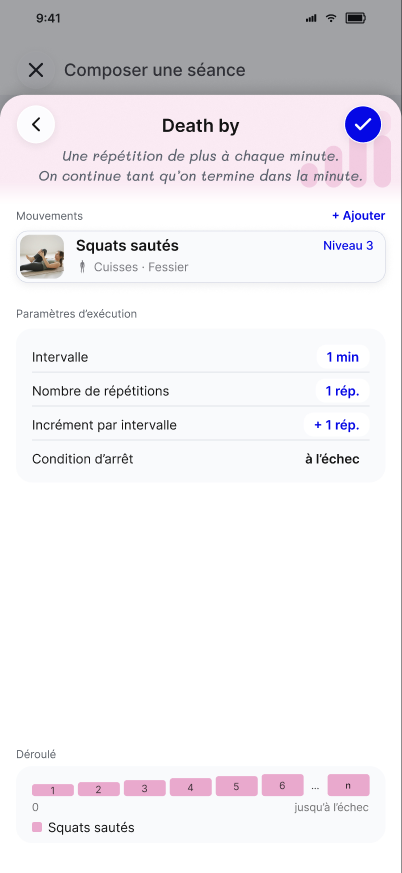
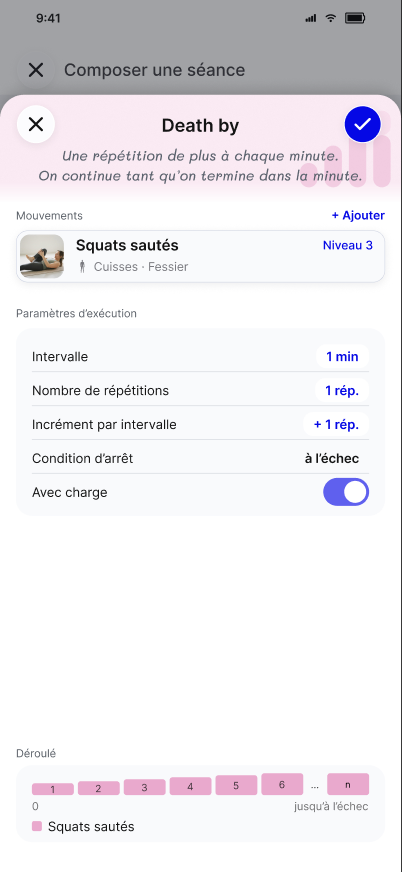
docs: bouton Valider les paramètres des questionnaires suivis d'une seconde étape (D-511)
Classe B. Spec du 06/11 §1 bis, ch07, ch13, ch06, référence Formats ;
4 écrans Figma créés, Death by un mouvement renommé.

Claude-Session: https://claude.ai/code/session_01SgPCgP1afjHHdeUEm3cke2

diff --git a/docs/KODJO-Formats-entrainement-2026-11-02.md b/docs/KODJO-Formats-entrainement-2026-11-02.md
@@ -1,6 +1,6 @@
 # Mise à jour des spécifications — Formats d'entraînement et portage du format par le circuit
 
-> **Révision du 05/11/2026 :** validation des modales de Format par la coche de l’en-tête (D-499) et « + Ajouter » en mode catalogue direct (D-500) — [KODJO-Catalogues-cartes-modales-2026-11-06](KODJO-Catalogues-cartes-modales-2026-11-06.md) §1–§2.
+> **Révision du 05/11/2026 :** validation des modales de Format par la coche de l’en-tête (D-499) et « + Ajouter » en mode catalogue direct (D-500) — [KODJO-Catalogues-cartes-modales-2026-11-06](KODJO-Catalogues-cartes-modales-2026-11-06.md) §1–§2. Précision du 06/11/2026 : bouton « Valider les paramètres » quand une seconde étape suit (D-511).
 
 **Référence active — mise à jour du 5 novembre 2026.** [Complément final validé du 5 novembre](sources/formats-2026-11-05/KODJO-Complement-Parcours-creation-2026-11-05.md) ; [base du 4 novembre](sources/formats-2026-11-04/KODJO-Mise-a-jour-ecrans-formats-consolidee-2026-11-04_finale.md). Les règles ci-dessous constituent la cible ; elles ne prouvent pas leur réalisation. Les archives OpenSpec restent inchangées.
 
@@ -239,7 +239,7 @@ Le questionnaire ne porte que les paramètres indépendants des mouvements.
   - Buy-in : interrupteur, désactivé par défaut ;
   - Volume croissant à chaque tour : interrupteur, désactivé par défaut.
 - **Déroulé** générique (cases 1, 2, 3… n), calé en bas de l'écran, au-dessus du bouton ; il réagit aux réponses.
-- **Bouton** « Valider les paramètres » : ouvre le récapitulatif avec les réponses conservées, sans ajout à la Composition. « Enregistrer dans la séance » appartient au récapitulatif ; la sauvegarde définitive reste dans la Composition. [06/11/2026 : action portée par la coche de l’en-tête de la modale, sans bouton en bas — D-499.]
+- **Bouton** « Valider les paramètres » : ouvre le récapitulatif avec les réponses conservées, sans ajout à la Composition. « Enregistrer dans la séance » appartient au récapitulatif ; la sauvegarde définitive reste dans la Composition. [06/11/2026 : action portée par la coche de l’en-tête de la modale, sans bouton en bas — D-499.] [06/11/2026 : bouton « Valider les paramètres » conservé en bas du questionnaire quand une seconde étape suit, coche masquée ; sinon la coche enregistre directement — D-511.]
 - **Sans mouvement — B10 en attente** : la représentation « Mouvement libre », les conditions de validation sans Mouvement et le lancement direct d’un minuteur ne sont pas validés dans cette révision. Ne pas implémenter la règle antérieure « toujours actif, même sans mouvement » ni une obligation nouvelle déduite de son retrait. Le parcours d’ajout avec des Mouvements et les validations existantes restent la base de travail ; le cas sans mouvement sera traité séparément.
 
 **État plusieurs blocs** : écran « AMRAP — Questionnaire, plusieurs blocs » (`11410:20361`). Trois blocs de 12 min avec deux repos de 2 min : **40 min** au total. Le déroulé affiche Bloc 1, repos, Bloc 2, repos, Bloc 3 ; les repos sont gris et sans libellé dans la frise, les largeurs proportionnelles aux durées. Cet exemple représente les blocs configurés, pas les tours de boucle réalisés. La ligne de repos entre blocs est conditionnelle ; le Repos après chaque tour de boucle demeure un réglage distinct.
@@ -483,7 +483,7 @@ Les réglages et structures initiales déjà définis pour ces départs sont rep
 
 ### 9.4 Superset
 
-**Deux mouvements à la création.** Un superset est une paire : le questionnaire n'accepte que deux mouvements. « + Ajouter » se désactive dès que deux mouvements sont choisis ; « Valider les paramètres » ne s'active qu'avec deux. Après l'enregistrement, le Circuit est un Circuit standard : un troisième Exercice peut y être ajouté depuis la Composition. [06/11/2026 : action portée par la coche de l’en-tête de la modale, sans bouton en bas — D-499.]
+**Deux mouvements à la création.** Un superset est une paire : le questionnaire n'accepte que deux mouvements. « + Ajouter » se désactive dès que deux mouvements sont choisis ; « Valider les paramètres » ne s'active qu'avec deux. Après l'enregistrement, le Circuit est un Circuit standard : un troisième Exercice peut y être ajouté depuis la Composition. [06/11/2026 : action portée par la coche de l’en-tête de la modale, sans bouton en bas — D-499.] [06/11/2026 : bouton « Valider les paramètres » conservé en bas du questionnaire quand une seconde étape suit, coche masquée ; sinon la coche enregistre directement — D-511.]
 
 **Réouverture** (« Modifier le format ») : le questionnaire et le récapitulatif affichent les Exercices actuels du Circuit, y compris un troisième ajouté depuis la Composition ; la présence de plus de deux Exercices ne bloque pas « Valider les paramètres » ni « Enregistrer les modifications », sous réserve que tous les paramètres requis soient renseignés et cohérents ; « + Ajouter » reste désactivé ; un mouvement peut être retiré tant qu'il en reste au moins deux. [06/11/2026 : action portée par la coche de l’en-tête de la modale, sans bouton en bas — D-499.]
 
@@ -625,7 +625,7 @@ Paramètres du questionnaire : Intervalle (1 min), Objectif de départ (1), Incr
 - **En alternance** : Circuit porteur du Format d’origine Death by, nature fixée « alternées », tours « jusqu’à l’échec ». A occupe un intervalle, puis B le suivant, puis A, B… ; chacun conserve sa progression par passage sur son mouvement, son objectif de départ, son incrément et son **Intervalle propre**, 1 min par défaut, modifiable dans sa modale. Le premier échec arrête le Circuit entier, puis la Séance poursuit les éléments suivants ; il ne met pas fin à toute la Séance ni au Cycle englobant. L’en-tête affiche exactement « Death by · jusqu’à l’échec · alternées », **sans durée** : un tour complet dure la somme des intervalles des membres, pas un intervalle commun. Les cartes montrent « 1 → n rép. » dans l’exemple (`11411:20181`). Les intervalles locaux se succèdent ; ils ne sont pas fusionnés en horloge commune de tour.
 - **Dans chaque intervalle** : circuit porteur du format (Format d'origine = Death by), nature fixée « groupées », Durée de chaque tour = intervalle (1 min), tours « jusqu'à l'échec » ; chaque exercice : Mode Répétitions ou Durée, Condition d'arrêt À l'échec, Objectif de départ 1 rép. ou valeur en Durée renseignée, Incrément par intervalle + 1, ni Séries, ni Intervalle, ni Durée de l'exercice ; Récupération 0 s. En-tête du circuit : « Death by · jusqu'à l'échec · groupées », intervalle en bleu, modifiable.
 
-Écrans Figma : « Death by — Questionnaire », « Death by — Récapitulatif » (un mouvement), « Death by — Récapitulatif, dans chaque intervalle » et « Death by — Récapitulatif, en alternance » (deux mouvements, choix de l'Exécution ; le déroulé montre A et B dans la même minute, ou une minute sur deux), « Death by — Modale exercice, standard », « Death by — Séance, circuit dans chaque intervalle », « Death by — Modale exercice, dans chaque intervalle ».
+Écrans Figma : « Death by — Questionnaire », « Death by — Récapitulatif » (un mouvement), « Death by — Récapitulatif, dans chaque intervalle » et « Death by — Récapitulatif, en alternance » (deux mouvements, choix de l'Exécution ; le déroulé montre A et B dans la même minute, ou une minute sur deux), « Death by — Modale exercice, standard », « Death by — Séance, circuit dans chaque intervalle », « Death by — Modale exercice, dans chaque intervalle ». [06/11/2026 : « Death by — Récapitulatif » (un mouvement) renommé « Death by — Questionnaire, un mouvement » — D-511.]
 
 **Condition d’arrêt Death by.** À l’échec désigne la condition de fin du défi : ne pas accomplir l’objectif croissant dans l’intervalle. Le Objectif de départ et l’Incrément restent visibles et actifs. Ne pas appliquer le masquage de cible de l’Exercice standard à l’échec. Cette combinaison était déjà définie dans la base ; elle n’ajoute pas de nouveau contrôle. La Cadence Death by reste Sans : l’assouplissement du §3 concerne AMRAP et For time seulement.
 
@@ -732,7 +732,7 @@ Pour un AMRAP à plusieurs blocs, le questionnaire représente la séquence des 
 | Tabata | « P-Tabata — Questionnaire », « P-Tabata — Récapitulatif, à la suite », « P-Tabata — Récapitulatif, en alternance » |
 | EMOM | « EMOM — Questionnaire », « EMOM — Récapitulatif, dans chaque intervalle », « … en alternance », « … à la suite » |
 | AMRAP | « AMRAP — Questionnaire », « AMRAP — Questionnaire, plusieurs blocs » (`11410:20361`), « AMRAP — Récapitulatif, incrément et max », « AMRAP — Récapitulatif, buy-in et incrément » |
-| Death by | « Death by — Questionnaire », « Death by — Récapitulatif », « … dans chaque intervalle », « … en alternance », « Death by — Récapitulatif, à la suite » (`11411:20474`) |
+| Death by | « Death by — Questionnaire », « Death by — Récapitulatif », « … dans chaque intervalle », « … en alternance », « Death by — Récapitulatif, à la suite » (`11411:20474`) | [06/11/2026 : « Death by — Récapitulatif » (un mouvement) renommé « Death by — Questionnaire, un mouvement » — D-511.]
 | For time | « For time — Questionnaire », « For time — Récapitulatif » |
 | Départs rapides | Questionnaires et récapitulatifs : « 30/30 — … », « Renforcement — … », « Superset — … », « Progression — … », « À l'échec — … » |
 
@@ -750,7 +750,7 @@ Fichier `G6RY5Ebhgwb4AHIOYDwwvg`, page « Prototype MVP » (`510:101`). Inventai
 | Tabata | « P-Tabata — Questionnaire », « … Questionnaire, saisie d'un mouvement », « … Choix des mouvements », « … Récapitulatif, à la suite », « … Récapitulatif, en alternance », « P-Tabata — Récapitulatif, fiche du mouvement (modale) » (`11472:20899`) |
 | EMOM | « EMOM — Questionnaire », « … Récapitulatif, dans chaque intervalle », « … en alternance », « … à la suite » |
 | AMRAP | « AMRAP — Questionnaire », « … Questionnaire, saisie d'un mouvement », « AMRAP — Questionnaire, plusieurs blocs » (`11410:20361`), « … Choix des mouvements », « … Choix du buy-in », « … Récapitulatif, incrément et max », « … Récapitulatif, suppression glissée », « … Récapitulatif, buy-in et incrément » |
-| Death by | « Death by — Questionnaire », « … Récapitulatif », « … Récapitulatif, dans chaque intervalle », « … Récapitulatif, en alternance », « Death by — Récapitulatif, à la suite » (`11411:20474`) |
+| Death by | « Death by — Questionnaire », « … Récapitulatif », « … Récapitulatif, dans chaque intervalle », « … Récapitulatif, en alternance », « Death by — Récapitulatif, à la suite » (`11411:20474`) | [06/11/2026 : « Death by — Récapitulatif » (un mouvement) renommé « Death by — Questionnaire, un mouvement » — D-511.]
 | For time | « For time — Questionnaire », « … Récapitulatif » |
 | Départs rapides | Questionnaire et Récapitulatif de « 30/30 », « Renforcement », « Superset », « Progression », « À l'échec » |
 

diff --git a/docs/Specifications-fonctionnelles/06 – Ecrans et navigation de la V1.md b/docs/Specifications-fonctionnelles/06 – Ecrans et navigation de la V1.md
@@ -1673,7 +1673,7 @@ Les anciennes ancres de frames sont conservées uniquement pour les liens histor
 
 **Captures actualisées le 5 novembre :** 87 PNG exportés depuis le fichier courant ; dimensions et empreintes dans le manifeste. Les anciens écrans de volumes ne sont plus des références actives. Les images prouvent les dispositions représentées, pas les interactions ni le fonctionnement du code.
 
-Le questionnaire et le récapitulatif sont des **modales**, ouvertes depuis la modale de création commune au Catalogue et à la Composition. Depuis la Composition, ils sont ouverts par le bas, pleine largeur, sous son titre ; depuis le Catalogue, aucun brouillon de Séance n’est créé avant l’arrivée en Composition. Ils ne portent aucun champ ni bloc « Titre de séance » : le nom, l’Étiquette et les réglages de Séance restent dans la Composition derrière le voile. Le titre de la modale est le nom du Format. Le questionnaire se ferme par croix vers le point de départ conservé (Catalogue ou Composition) ; son bouton **« Valider les paramètres »** ouvre le récapitulatif sans ajouter de structure. Le récapitulatif revient au questionnaire par Retour avec réponses conservées ; **« Enregistrer dans la séance »** ajoute la structure au brouillon de Composition, sans sauvegarde définitive. Aucun changement de nom de Séance n’est déclenché par ces étapes. [06/11/2026 : action portée par la coche de l’en-tête de la modale, sans bouton en bas — D-499.]
+Le questionnaire et le récapitulatif sont des **modales**, ouvertes depuis la modale de création commune au Catalogue et à la Composition. Depuis la Composition, ils sont ouverts par le bas, pleine largeur, sous son titre ; depuis le Catalogue, aucun brouillon de Séance n’est créé avant l’arrivée en Composition. Ils ne portent aucun champ ni bloc « Titre de séance » : le nom, l’Étiquette et les réglages de Séance restent dans la Composition derrière le voile. Le titre de la modale est le nom du Format. Le questionnaire se ferme par croix vers le point de départ conservé (Catalogue ou Composition) ; son bouton **« Valider les paramètres »** ouvre le récapitulatif sans ajouter de structure. Le récapitulatif revient au questionnaire par Retour avec réponses conservées ; **« Enregistrer dans la séance »** ajoute la structure au brouillon de Composition, sans sauvegarde définitive. Aucun changement de nom de Séance n’est déclenché par ces étapes. [06/11/2026 : action portée par la coche de l’en-tête de la modale, sans bouton en bas — D-499.] [06/11/2026 : bouton « Valider les paramètres » conservé en bas du questionnaire quand une seconde étape suit, coche masquée ; sinon la coche enregistre directement — D-511.]
 
 « Ouvrir le mode catalogue » reste dans la même modale de questionnaire : aucune navigation sortante ni modale de catalogue supplémentaire. La recherche reste visible avec le texte saisi et les résultats déjà filtrés ; croix d’effacement dès que le champ contient du texte. Filtrer, Trier et Replier / déplier les piles sont à droite sur la même ligne. Les petites cartes occupent la hauteur disponible jusqu’au bas de la modale, avec le filet des niveaux d’une famille, sans compteur « n familles · n mouvements ». « Ajouter » applique la sélection et referme ce mode ; « Fermer le mode catalogue » revient à la saisie sans ajouter de mouvement. La boucle permet la sélection multiple ; le buy-in, sous « Mouvement du buy-in », une sélection unique. [06/11/2026 : lien retiré ; « + Ajouter » ouvre directement le mode catalogue — D-500.]
 
@@ -2249,9 +2249,9 @@ Nœud [8624:30521](https://www.figma.com/design/G6RY5Ebhgwb4AHIOYDwwvg?node-id=8
 
 <a id="format-8624-30602"></a>
 
-##### Death by — Récapitulatif
+##### Death by — Questionnaire, un mouvement
 
-Nœud [8624:30602](https://www.figma.com/design/G6RY5Ebhgwb4AHIOYDwwvg?node-id=8624-30602) · Contrat CE-FMT-02 · Export du 05/11/2026.
+Nœud [8624:30602](https://www.figma.com/design/G6RY5Ebhgwb4AHIOYDwwvg?node-id=8624-30602) · Contrat CE-FMT-02 · Export du 05/11/2026. [06/11/2026 : « Death by — Récapitulatif » (un mouvement) renommé « Death by — Questionnaire, un mouvement » — D-511.]
 
 ![Death by — Récapitulatif](images/figma-8624-30602.png)
 
@@ -3330,11 +3330,11 @@ Nœud [8624:30198](https://www.figma.com/design/G6RY5Ebhgwb4AHIOYDwwvg?node-id=8
 
 ![Death by — Questionnaire](images/catalogues-2026-11-06/8624-30198.png)
 
-##### Death by — Récapitulatif
+##### Death by — Questionnaire, un mouvement
 
 Nœud [8624:30602](https://www.figma.com/design/G6RY5Ebhgwb4AHIOYDwwvg?node-id=8624-30602) · Export du 06/11/2026.
 
-![Death by — Récapitulatif](images/catalogues-2026-11-06/8624-30602.png)
+![Death by — Questionnaire, un mouvement](images/catalogues-2026-11-06/8624-30602.png)
 
 ##### Death by — Récapitulatif, dans chaque intervalle
 
@@ -3497,3 +3497,27 @@ Nœud [8656:35273](https://www.figma.com/design/G6RY5Ebhgwb4AHIOYDwwvg?node-id=8
 Nœud [8656:35331](https://www.figma.com/design/G6RY5Ebhgwb4AHIOYDwwvg?node-id=8656-35331) · Export du 06/11/2026.
 
 ![À l’échec — Récapitulatif](images/catalogues-2026-11-06/8656-35331.png)
+
+##### EMOM — Questionnaire, un mouvement
+
+Nœud [11753:21642](https://www.figma.com/design/G6RY5Ebhgwb4AHIOYDwwvg?node-id=11753-21642) · Export du 06/11/2026 · D-511.
+
+![EMOM — Questionnaire, un mouvement](images/catalogues-2026-11-06/11753-21642.png)
+
+##### P-Tabata — Questionnaire, un mouvement
+
+Nœud [11753:21837](https://www.figma.com/design/G6RY5Ebhgwb4AHIOYDwwvg?node-id=11753-21837) · Export du 06/11/2026 · D-511.
+
+![P-Tabata — Questionnaire, un mouvement](images/catalogues-2026-11-06/11753-21837.png)
+
+##### P-Tabata — Questionnaire, deux mouvements
+
+Nœud [11753:21977](https://www.figma.com/design/G6RY5Ebhgwb4AHIOYDwwvg?node-id=11753-21977) · Export du 06/11/2026 · D-511.
+
+![P-Tabata — Questionnaire, deux mouvements](images/catalogues-2026-11-06/11753-21977.png)
+
+##### Superset — Questionnaire, deux mouvements
+
+Nœud [11753:22133](https://www.figma.com/design/G6RY5Ebhgwb4AHIOYDwwvg?node-id=11753-22133) · Export du 06/11/2026 · D-511.
+
+![Superset — Questionnaire, deux mouvements](images/catalogues-2026-11-06/11753-22133.png)

diff --git a/docs/KODJO-Catalogues-cartes-modales-2026-11-06.md b/docs/KODJO-Catalogues-cartes-modales-2026-11-06.md
@@ -1,7 +1,7 @@
 # KODJO — Catalogues, cartes et validation des modales — 5 et 6 novembre 2026
 
 **Nature :** spécification active. Elle complète la référence Formats (`KODJO-Formats-entrainement-2026-11-02.md`), la spécification des cartes et du catalogue des séances (`KODJO-Spec-Carte-et-catalogue-seances-2026-10-27.md`), les zones de contexte des catalogues (`KODJO-Zones-contexte-catalogues-PRE9-2026-10-30.md`) et les contrats CE-CAT-CTX-01, CE-T03-01, CE-MVT-03 et CE-FMT-01 à CE-FMT-05. Elle remplace leurs prescriptions contraires dans les seuls périmètres ci-dessous.
-**Décisions :** Hermann, 5 novembre 2026 (§1, §2) et 6 novembre 2026 (§3 à §9). Registre : D-499 à D-509.
+**Décisions :** Hermann, 5 novembre 2026 (§1, §2) et 6 novembre 2026 (§3 à §9). Registre : D-499 à D-509, D-511.
 **Figma :** fichier `G6RY5Ebhgwb4AHIOYDwwvg`, page « Prototype MVP » `510:101` ; planche DSF « DSF V2 / Catalogues — couleurs, onglet, cartes et validation des modales — 6 novembre 2026 » `11734:2100` (page « Design system — Fondations »).
 
 ## 1. Validation des modales par la coche de l'en-tête (D-499)
@@ -10,7 +10,7 @@ Une modale qui crée ou modifie se valide par la **coche** de son en-tête, à d
 
 | Modale | Action portée par la coche | Ancien bouton |
 |---|---|---|
-| Questionnaire d'un Format | Ouvre le récapitulatif | « Valider les paramètres » |
+| Questionnaire d'un Format | Enregistre directement dans la Séance quand aucune seconde étape ne suit ; sinon voir §1 bis (D-511) | « Valider les paramètres » |
 | Récapitulatif d'un Format | Enregistre dans la Séance ; à la réouverture depuis la Composition, enregistre les modifications | « Enregistrer dans la séance », « Enregistrer les modifications » |
 | Choix des mouvements d'un Format (y compris le choix du buy-in) | Revient au questionnaire avec la sélection | « Enregistrer dans la séance » |
 | Catalogue des séances ouvert depuis la planification (une ou plusieurs séances) | Valide la sélection | « Valider » |
@@ -21,6 +21,21 @@ Une modale qui crée ou modifie se valide par la **coche** de son en-tête, à d
 - **Composants :** en-tête de modale existant à croix et coche (variante « Roulette » de « En-tête modal — Paramètres d'exécution ») ; en-tête fixe « DSF / Navigation / En-tête fixe », variante **« Fermer et valider »** ajoutée pour les écrans de planification.
 - **Exceptions, bouton large conservé :** pendant et juste après l'effort, la cible doit rester grande et sous le pouce : « Résultat de série », « Répétitions partielles », « Avant la séance — Douleur » (Commencer), synthèses de séance et d'exécution. « Modifier le profil » est un écran avec Retour, pas une modale : inchangé.
 - Toute mention des libellés remplacés dans les documents désigne désormais l'action de la coche.
+
+## 1 bis. Questionnaire suivi d'une seconde étape : bouton « Valider les paramètres » (D-511)
+
+Quand les mouvements choisis exigent de renseigner des valeurs dans un tableau ou des champs présentés ensuite (récapitulatif), le questionnaire garde le bouton large **« Valider les paramètres »** en bas de la modale. Il ouvre le récapitulatif. La coche de l'en-tête est alors masquée : il ne reste que la croix, pour qu'un seul geste valide l'étape.
+
+| Format | Seconde étape |
+|---|---|
+| EMOM, AMRAP, For time, Progression | dès le premier mouvement |
+| Tabata, 30/30, Death by, Renforcement, À l'échec | à partir du deuxième mouvement |
+| Superset | à deux mouvements, nombre exigé |
+
+- **Sans seconde étape** (Tabata, 30/30, Death by, Renforcement ou À l'échec avec un seul mouvement) : pas de bouton ni de récapitulatif ; la coche enregistre directement dans la Séance.
+- **Avant le nombre de mouvements requis** (aucun mouvement ; Superset à un mouvement) : pas de bouton, coche grise.
+- **Réouverture** (« Modifier le format ») : un Format sans seconde étape rouvre le questionnaire prérempli, sa coche enregistre les modifications ; les autres rouvrent le récapitulatif.
+- **Écrans :** « EMOM — Questionnaire, un mouvement » `11753:21642`, « P-Tabata — Questionnaire, un mouvement » `11753:21837`, « P-Tabata — Questionnaire, deux mouvements » `11753:21977`, « Superset — Questionnaire, deux mouvements » `11753:22133`, « Death by — Questionnaire, un mouvement » `8624:30602` (ancien « Death by — Récapitulatif »).
 
 ## 2. Ajout d'un mouvement dans un questionnaire de Format (D-500)
 

diff --git a/docs/Specifications-fonctionnelles/13 – Contrats d’écran.md b/docs/Specifications-fonctionnelles/13 – Contrats d’écran.md
@@ -2384,7 +2384,7 @@ Modèle choisi ou Retour depuis son récapitulatif.
 
 #### 4. Contexte de sortie / destinations
 
-Questionnaire croix → Composition ; Valider les paramètres → récapitulatif modal sans ajout ; récapitulatif Retour → questionnaire avec réponses conservées ; Enregistrer dans la séance → Composition enrichie. Mode catalogue intégré : Ajouter → sélection appliquée ; Fermer le mode catalogue → saisie sans ajout. Photo → Fiche du mouvement superposée, croix → même état du parcours. [06/11/2026 : action portée par la coche de l’en-tête de la modale, sans bouton en bas — D-499.]
+Questionnaire croix → Composition ; Valider les paramètres → récapitulatif modal sans ajout ; récapitulatif Retour → questionnaire avec réponses conservées ; Enregistrer dans la séance → Composition enrichie. Mode catalogue intégré : Ajouter → sélection appliquée ; Fermer le mode catalogue → saisie sans ajout. Photo → Fiche du mouvement superposée, croix → même état du parcours. [06/11/2026 : action portée par la coche de l’en-tête de la modale, sans bouton en bas — D-499.] [06/11/2026 : bouton « Valider les paramètres » conservé en bas du questionnaire quand une seconde étape suit, coche masquée ; sinon la coche enregistre directement — D-511.]
 
 #### 5. Données affichées et source de vérité
 
@@ -6033,7 +6033,7 @@ Le menu passe de cinq à **trois** options, dans cet ordre :
 
 **Documentation :** ch06 (Composition : appui sur la photo), ch13 (contrat de la fiche en lecture seule).
 
-**Deux mouvements à la création.** Un superset est une paire : le questionnaire n'accepte que deux mouvements. « + Ajouter » se désactive dès que deux mouvements sont choisis ; « Valider les paramètres » ne s'active qu'avec deux. Après l'enregistrement, le Circuit est un Circuit standard : un troisième Exercice peut y être ajouté depuis la Composition. [06/11/2026 : action portée par la coche de l’en-tête de la modale, sans bouton en bas — D-499.]
+**Deux mouvements à la création.** Un superset est une paire : le questionnaire n'accepte que deux mouvements. « + Ajouter » se désactive dès que deux mouvements sont choisis ; « Valider les paramètres » ne s'active qu'avec deux. Après l'enregistrement, le Circuit est un Circuit standard : un troisième Exercice peut y être ajouté depuis la Composition. [06/11/2026 : action portée par la coche de l’en-tête de la modale, sans bouton en bas — D-499.] [06/11/2026 : bouton « Valider les paramètres » conservé en bas du questionnaire quand une seconde étape suit, coche masquée ; sinon la coche enregistre directement — D-511.]
 
 **Réouverture** (« Modifier le format ») : le questionnaire et le récapitulatif affichent les Exercices actuels du Circuit, y compris un troisième ajouté depuis la Composition ; la présence de plus de deux Exercices ne bloque pas « Valider les paramètres » ni « Enregistrer les modifications », sous réserve que tous les paramètres requis soient renseignés et cohérents ; « + Ajouter » reste désactivé ; un mouvement peut être retiré tant qu'il en reste au moins deux. [06/11/2026 : action portée par la coche de l’en-tête de la modale, sans bouton en bas — D-499.]
 

diff --git a/.github/orchestration/reports/2026-11-06_QUESTIONNAIRES_VALIDER_PARAMETRES.md b/.github/orchestration/reports/2026-11-06_QUESTIONNAIRES_VALIDER_PARAMETRES.md
@@ -1,0 +1,38 @@
+# Rapport de mission — QUESTIONNAIRES_VALIDER_PARAMETRES (6 novembre 2026)
+
+- **Objectif :** rétablir le bouton « Valider les paramètres » sur les questionnaires de Format suivis d'une seconde étape, et vérifier l'alignement de Figma (demande de Hermann du 6/11/2026, D-511).
+- **Branche :** `docs/pre9-catalogues-cartes-modales-20261106`.
+- **Commit de départ :** `8bcb1d642567e71ddad130d99d81be14899eaf52`.
+- **Périmètre :** Figma (questionnaires de Format) et documentation associée.
+- **Règle appliquée :** la seconde étape (récapitulatif) existe :
+  - dès le premier mouvement pour EMOM, AMRAP, For time et Progression ;
+  - à partir du deuxième mouvement pour Tabata, 30/30, Death by, Renforcement et À l'échec ;
+  - à deux mouvements pour Superset.
+
+  Le bouton est en bas et la coche est masquée. Sans seconde étape, la coche enregistre directement.
+- **Constats :**
+  - les 11 questionnaires existants sont tous à zéro mouvement : aucun écran ne montrait le cas du bouton ;
+  - « Death by — Récapitulatif » montrait un seul mouvement, ce qui contredit la règle.
+- **Figma :**
+  - écrans créés : `11753:21642` (EMOM, un mouvement), `11753:21837` (Tabata, un mouvement), `11753:21977` (Tabata, deux mouvements), `11753:22133` (Superset, deux mouvements) ;
+  - `8624:30602` renommé « Death by — Questionnaire, un mouvement » : croix à la place de Retour, paramètres du questionnaire avec « Avec charge » ;
+  - bouton : instance de « DSF / Actions / Bouton primaire », état Actif.
+- **Documentation :**
+  - spec du 6/11, nouveau §1 bis ;
+  - ch07 : D-511 ;
+  - ch13 et référence Formats : annotations ;
+  - ch06 : annotations et galerie ;
+  - INDEX.
+- **Synchronisation code / documentation :** classe B (décision explicite).
+- **Tests :** aucun applicable (documentation et Figma). Captures relues après modification.
+- **Hypothèses non démontrées :** aucune.
+- **Hors périmètre :** la coche des questionnaires à zéro mouvement est bleue dans Figma alors que la règle la veut grise. Signalé pour arbitrage, non modifié.
+- **À vérifier sur appareil :** le passage dynamique coche ↔ bouton quand on ajoute ou retire un mouvement.
+- **Fichiers modifiés :**
+  - spec du 6/11 ;
+  - ch06, ch07, ch13 ;
+  - `KODJO-Formats-entrainement-2026-11-02.md` ;
+  - INDEX ;
+  - 5 images ;
+  - ce rapport.
+- **Commit final et état Git :** donnés dans le compte rendu de livraison.

diff --git a/docs/INDEX.md b/docs/INDEX.md
@@ -2,7 +2,7 @@
 
 ## Formats — base de reprise actualisée le 5 novembre 2026
 
-- [Catalogues, cartes et validation des modales — 5 et 6 novembre 2026](KODJO-Catalogues-cartes-modales-2026-11-06.md) : coche d’en-tête des modales, mode catalogue direct, couleurs par catalogue, onglets, cartes Séance et Mouvement, carte dépliée, écart du code (D-499 à D-509).
+- [Catalogues, cartes et validation des modales — 5 et 6 novembre 2026](KODJO-Catalogues-cartes-modales-2026-11-06.md) : coche d’en-tête des modales, mode catalogue direct, couleurs par catalogue, onglets, cartes Séance et Mouvement, carte dépliée, écart du code, bouton « Valider les paramètres » des questionnaires suivis d’une seconde étape (D-499 à D-509, D-511).
 - [Badge « NOUVEAU » dans le catalogue des mouvements — 6 novembre 2026](KODJO-Badge-Nouveau-catalogue-mouvements-2026-11-06.md) : spec différentielle, à intégrer après validation (D-510).
 - [Spécification active](KODJO-Formats-entrainement-2026-11-02.md) : création commune Catalogue/Composition, menu trois options, tableaux EMOM par série, Superset alterné, charges locales et règles Death by Répétitions/Durée. [Complément final du 5 novembre](sources/formats-2026-11-05/KODJO-Complement-Parcours-creation-2026-11-05.md), appliqué à la base finale du 4 novembre. Validation EMOM bloquante ; Death by averti au premier rang incompatible puis borné à l’exécution.
 - [Contrats CE-FMT-01 à 04](Specifications-fonctionnelles/13%20%E2%80%93%20Contrats%20d%E2%80%99%C3%A9cran.md#ce-fmt-01).

diff --git a/docs/Specifications-fonctionnelles/07 – Registre des décisions de conception.md b/docs/Specifications-fonctionnelles/07 – Registre des décisions de conception.md
@@ -1274,3 +1274,4 @@ Source : [KODJO-Catalogues-cartes-modales-2026-11-06](../KODJO-Catalogues-cartes
 | D-507 | Carte dépliée : « Cycle » + « N passages » à droite ; « Circuit · séries groupées | alternées » + « N tours » à droite ; volumes « rép. ». | Hermann, 06/11/2026 | CE-T03-01 |
 | D-508 | Carte Mouvement et feuilles de pile : 72 pt, photo 4/rayon 8, blanc, liseré 50 %, niveau aligné sur le nom ; feuilles avec la même ombre que la carte. | Hermann, 06/11/2026 | CE-MVT-03 |
 | D-509 | Le code ne doit plus utiliser `selectionSurface` (#E5F0FF) pour la zone de contexte ; jetons par catalogue (D-501). Écart historique : classe A ; nouvelles couleurs : classe B. | Constat 06/11/2026, décision D-501 | ch12, code |
+| D-511 | Le questionnaire d’un Format suivi d’une seconde étape garde le bouton « Valider les paramètres » (vers le récapitulatif), coche masquée : EMOM, AMRAP, For time, Progression dès le premier mouvement ; Tabata, 30/30, Death by, Renforcement, À l’échec à partir du deuxième ; Superset à deux mouvements. Sans seconde étape, la coche enregistre directement. Précise D-499. | Hermann, 06/11/2026 | spec 06/11 §1 bis, ch06, ch13, Formats §7 |
